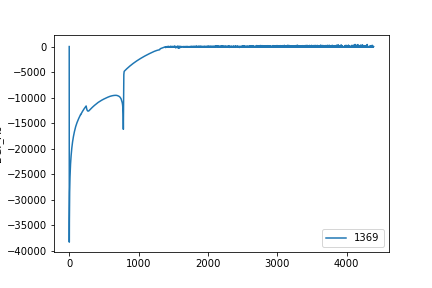
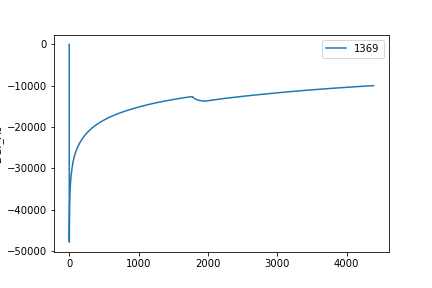
CUE implemented into growth
Save because Pc about to crash maybe

diff --git a/Thermomicrobentest.py b/Thermomicrobentest.py
@@ -17,7 +17,7 @@ from order import Henrys_dict
 
 SOIL_DENSITY = 1.3 # g/cm3 # 1.3 dry density for clay from Knoblauch data
 m_C = 12.01*1e-3 # mg/micromol molar mass of carbon
-T = 50
+T = 4
 T = T + 273.15 # von Celcius nach Kelvin  
 
 def henrys_law (H_cp_Standard, H_cp_temp):
@@ -212,16 +212,21 @@ def GeneralPathway(microbe_dict, educt_dict, product_dict, pathway_name = ''):
     # print(actual_reaction_rate)
     # input('actual reactual')
 
+    C_for_growth = 0
     pool_change_dict = dict()
     for educt, edu_dict in educt_dict.items():
         normalized_stoich = edu_dict['Stoch']/Edu_Bezug_stoich
-        if 'C_source' in edu_dict:
+        CUE = 0
+
+        if 'C_source' in microbe_dict and educt == microbe_dict['C_source']:    
             CUE = microbe_dict['CUE']
-            pool_change_dict[educt] = - normalized_stoich*actual_reaction_rate * 1/ CUE
-        else:     
-            pool_change_dict[educt] = - normalized_stoich*actual_reaction_rate 
-        
             
+            total_metabolized = normalized_stoich*actual_reaction_rate / (1-CUE)
+            growth_metabolized = CUE * total_metabolized 
+            
+            C_for_growth = growth_metabolized * edu_dict['C_atoms'] # mikromol C für Wachstum 
+        pool_change_dict[educt] = - normalized_stoich*actual_reaction_rate / (1-CUE)
+       
         
      
     # wie viel der jeweiligen Produkte werden produziert    
@@ -232,10 +237,11 @@ def GeneralPathway(microbe_dict, educt_dict, product_dict, pathway_name = ''):
        # print(Edu_Bezug_stoich)
        # print(pool_change_dict[product] )
         
-    w = microbe_dict['growth_rate']
+    W_max = microbe_dict['growth_rate']
     dead_microbes = Biomass*microbe_dict['death_rate']
-    biomass_change = Biomass* w *actual_reaction_rate - dead_microbes # !TODO massenbilanz ausgleichen
-
+    #biomass_change = - dead_microbes  + Biomass* W_max *actual_reaction_rate *C_for_growth
+    #input('stop here')
+    biomass_change = - dead_microbes  + W_max  * C_for_growth * 12011 # Gewicht 1 Mol C =  12.011 g /mol 
     pool_change_dict['biomass'] = biomass_change
     # print(biomass_change)
     # input('biomass '+pathway_name)
@@ -262,12 +268,12 @@ def Ferm_help_Pathway(pool_dict,model_parameter_dict):
                     'Kmb'           : model_parameter_dict['Kmb_help_Ferm'],
                     'Ferm_help'     : True, # ist nur wichtig das es den key 'Ferm_help' gibt 
                     'microbe'       : 'Ferm_help',
-                    'CUE'           :       0.5  }
+                    'CUE'           :       0.5  ,}
+                    #'C_source'      :  'C'}
     
     educt_dict =  {'C'              : {'concentration'  : pool_dict['C'],
                                        'Stoch'          : 1,
-                                       'Km'             : 0,
-                                       'C_source'       : True}}# 10 from Song  mikromol pro gram 
+                                       'Km'             : 0}}# 10 from Song  mikromol pro gram 
                      
     
     product_dict = { 'DOC' : {'concentration': pool_dict['DOC'],
@@ -305,13 +311,14 @@ def Ferm_Pathway(pool_dict,model_parameter_dict):
                     'KmA_Ferm'      : model_parameter_dict['KmA_Ferm'],
                     'Ferm'          : True,
                     'microbe'       : "Ferm" ,
-                    'CUE'           :       0.5  }
+                    'CUE'           :       0.5,
+                    'C_source'       : 'DOC'}
     
     
     educt_dict =  {'DOC'           : {'concentration':pool_dict['DOC'],
                                     'Stoch'          : 6                 ,                                    
-                                    'Km'             : 10 / SOIL_DENSITY,
-                                    'C_source'       : True}}# 10 from Song  mikromol pro gram 
+                                    'Km'             : 10 / SOIL_DENSITY,# 10 from Song  mikromol pro gram 
+                                     'C_atoms'      : 6                 }}    # weil glucose 6 C atome hat und ein momomer aus der spaltung von Coellulose ist 
                      
     
     
@@ -360,14 +367,15 @@ def Fe3_Pathway(pool_dict,model_parameter_dict):
                     'growth_rate'   : model_parameter_dict['w_Fe3'], 
                     'death_rate'    : model_parameter_dict['Sensenmann'],
                     'microbe'       : 'M_Fe3',
-                    'CUE'           :  0.5  }
+                    'CUE'           :  0.5  ,
+                    'C_source'      :  'Acetate'}
                     #'DGs'           : -109.45 }
     
     educt_dict =  {'Acetate'       : {'concentration':pool_dict['Acetate'],
                                     'Stoch'          : 1                  ,
                                     'DGf'            : -369.31            ,
-                                    'Km'             : 0.01 / SOIL_DENSITY,
-                                    'C_source'       : True}, #0.01 / SOIL_DENSITY # wert nach Roden 2003 10 mal kleiner als bei Ace (0.8). Aber passt vlt nicht mehr mit den anderen werten zusammen
+                                    'Km'             : 0.01 / SOIL_DENSITY, #0.01 / SOIL_DENSITY # wert nach Roden 2003 10 mal kleiner als bei Ace (0.8). Aber passt vlt nicht mehr mit den anderen werten zusammen
+                                    'C_atoms'      : 2                    }, 
     
                       'Fe3'        :{'concentration':pool_dict['Fe3'] ,
                                    'Stoch'          : 8                   ,
@@ -420,7 +428,8 @@ def Hydro_Pathway(pool_dict,model_parameter_dict):
                     'growth_rate'   : model_parameter_dict['w_Hydro']   , 
                     'death_rate'    : model_parameter_dict['Sensenmann'],
                     'microbe'       : 'M_Hydro',
-                    'CUE'           :       0.5  }
+                    'CUE'           :       0.5,
+                    'C_source'      :  'CO2'}
                       #'DGs '       : 343.56 } # ja positiv
                       
     H_cc_CO2 = henrys_law(Henrys_dict['CO2']['H_cp_Standard'], Henrys_dict['CO2']['H_cp_temp'])
@@ -440,9 +449,8 @@ def Hydro_Pathway(pool_dict,model_parameter_dict):
                   'CO2'  :{'concentration': dissolved_CO2,
                            'Stoch'        : 1                                ,
                            'DGf'          : -394.36                          ,
-                           'Km'           : 0.05/SOIL_DENSITY  ,
-                           'C_source'       : True}} # 0.05 mikromol pro cm^3 from Song
-                    
+                           'Km'           : 0.05/SOIL_DENSITY  , # 0.05 mikromol pro cm^3 from Song
+                           'C_atoms'      : 1                 }}
     
     product_dict = {'CH4' :{'concentration': dissolved_CH4 , # auf 0 weil es in den Headspace diffundiert
                             'Stoch'        : 1                ,
@@ -470,7 +478,8 @@ def Homo_Pathway(pool_dict,model_parameter_dict):
                     'growth_rate'   : model_parameter_dict['w_Homo']    , 
                     'death_rate'    : model_parameter_dict['Sensenmann'],
                     'microbe'       : 'M_Homo',
-                    'CUE'           :       0.5  }
+                    'CUE'           :       0.5 ,
+                    'C_source'      :  'CO2'}
                     #'DGs'          : 25 }
                     
     H_cc_CO2 = henrys_law(Henrys_dict['CO2']['H_cp_Standard'], Henrys_dict['CO2']['H_cp_temp'])
@@ -488,7 +497,7 @@ def Homo_Pathway(pool_dict,model_parameter_dict):
                            'Stoch'         : 2                     ,
                            'DGf'           : -394.36               ,
                            'Km'            : 0.05 / SOIL_DENSITY   ,  # 0.05 from Song, laut (van1999efFe3cts) größer als Hydro, laut schink1997energetics sollte der Wert mit sinkender Temp, mit zunehmendem Acetate und sinkendem PH sinken (Im vlg zu Hydro)
-                           'C_source'      : True}}
+                           'C_atoms'      : 1                 }}
     
     product_dict = {'Acetate' : {'concentration': pool_dict['Acetate'] ,
                                  'Stoch'        : 1                    ,
@@ -514,14 +523,15 @@ def Ac_Pathway(pool_dict,model_parameter_dict):
                     'growth_rate'   : model_parameter_dict['w_Ac'], 
                     'death_rate'    : model_parameter_dict['Sensenmann'],
                     'microbe'       : 'M_Ac',
-                    'CUE'           :       0.5  }
+                    'CUE'           :       0.5,
+                    'C_source'      :  'Acetate'}
                       #'DGs'        : -75.89 }
     
     educt_dict = { 'Acetate' : {'concentration': pool_dict['Acetate']    ,
                                 'Stoch'        :  1                     ,
                                  'DGf'         : -369.31                ,
                                  'Km'          :  0.05 / SOIL_DENSITY   , #0.05 / SOIL_DENSITY   # 0.05 from song, Wert sollte 10 mal höher sein als bei AltE laut roden2003 bei 12Mikromol !!!!
-                                 'C_source'       : True}}
+                                 'C_atoms'      : 2                 }}
     
     H_cc_CO2 = henrys_law(Henrys_dict['CO2']['H_cp_Standard'], Henrys_dict['CO2']['H_cp_temp'])
     H_cc_CH4 = henrys_law(Henrys_dict['CH4']['H_cp_Standard'], Henrys_dict['CH4']['H_cp_temp'])

diff --git a/order.py b/order.py
@@ -109,9 +109,9 @@ def get_fixed_quantities():
     fixed_quantities_dict = dict()        
     #fixed_quantities_dict['M_Ac'] = 0.2 # superdata_Kuru = 0.001
     fixed_quantities_dict['M_Ferm'] =  0.6 #1.3e-07 #
-    fixed_quantities_dict['M_Fe3'] =0.2  # 0.2
-    fixed_quantities_dict['M_Hydro'] = 0.2 # 0.2
-    fixed_quantities_dict['M_Homo'] = 0.2 # 0.2
+    fixed_quantities_dict['M_Fe3'] =0.6  # 0.2
+    fixed_quantities_dict['M_Hydro'] = 0.6 # 0.2
+    fixed_quantities_dict['M_Homo'] = 0.6 # 0.2
     
     return(fixed_quantities_dict)
     
@@ -125,15 +125,15 @@ def get_initial_guesses():
     initial_guess_dict['Vmax_Hydro'] =      (0.182, 0.03, 0.2)   # 0.086
     initial_guess_dict['Vmax_Ac'] =         (0.99, 0.05, 3.0)  # 0.207
     initial_guess_dict['w_Ferm'] =          (0.032,  0.03, 0.05)  # 0.05
-    initial_guess_dict['w_Fe3'] =           (0.053, 0.01, 0.05)  # 0.013
+    initial_guess_dict['w_Fe3'] =           (0.93, 0.01, 0.05)  # 0.013
     initial_guess_dict['w_Hydro'] =         (0.024, 0.01, 0.05)  # 0.024
     initial_guess_dict['w_Homo'] =          (0.049, 0.01, 0.05)  # 0.049
-    initial_guess_dict['w_Ac'] =            (0.036,  0.01, 0.05)  # 0.04
+    initial_guess_dict['w_Ac'] =            (0.36,  0.01, 0.05)  # 0.04
     initial_guess_dict['Sensenmann'] =      (8.33e-5, 0, 8.44e-5)# 0
     initial_guess_dict['Kmb_help_Ferm'] =   (10.009,    1,  10)      # 10
     # initial_guess_dict['Kmh_Ferm'] =        (10,    1,  10)    # 10
     initial_guess_dict['Fe3'] =             (30.587,  2,  100)    # 10.75
-    initial_guess_dict['M_Ac'] =            (.143,  1.3e-08,  5e05) # 0.05
+    initial_guess_dict['M_Ac'] =            (.6,  1.3e-08,  5e05) # 0.05
     initial_guess_dict['KmA_Ferm']=         (17.315, 0.05, 20)     # 0.05 # Diese Boundaries müssen anhander Acetatekurven angepasst werden
 
     return(initial_guess_dict)

diff --git a/Thermorefactored.py b/Thermorefactored.py
@@ -719,6 +719,7 @@ def run_my_model(specimens, Site = "all"):#, Cpool_init = 5555.5):
     #return None # exit before plotting to save time when profiling
    
     for k,v in pool_value_dict.items():
+        #
         #print('the length is:',len(pool_value_dict['CO2']))
         plt.figure()
         plt.plot(all_days,v,'-')
